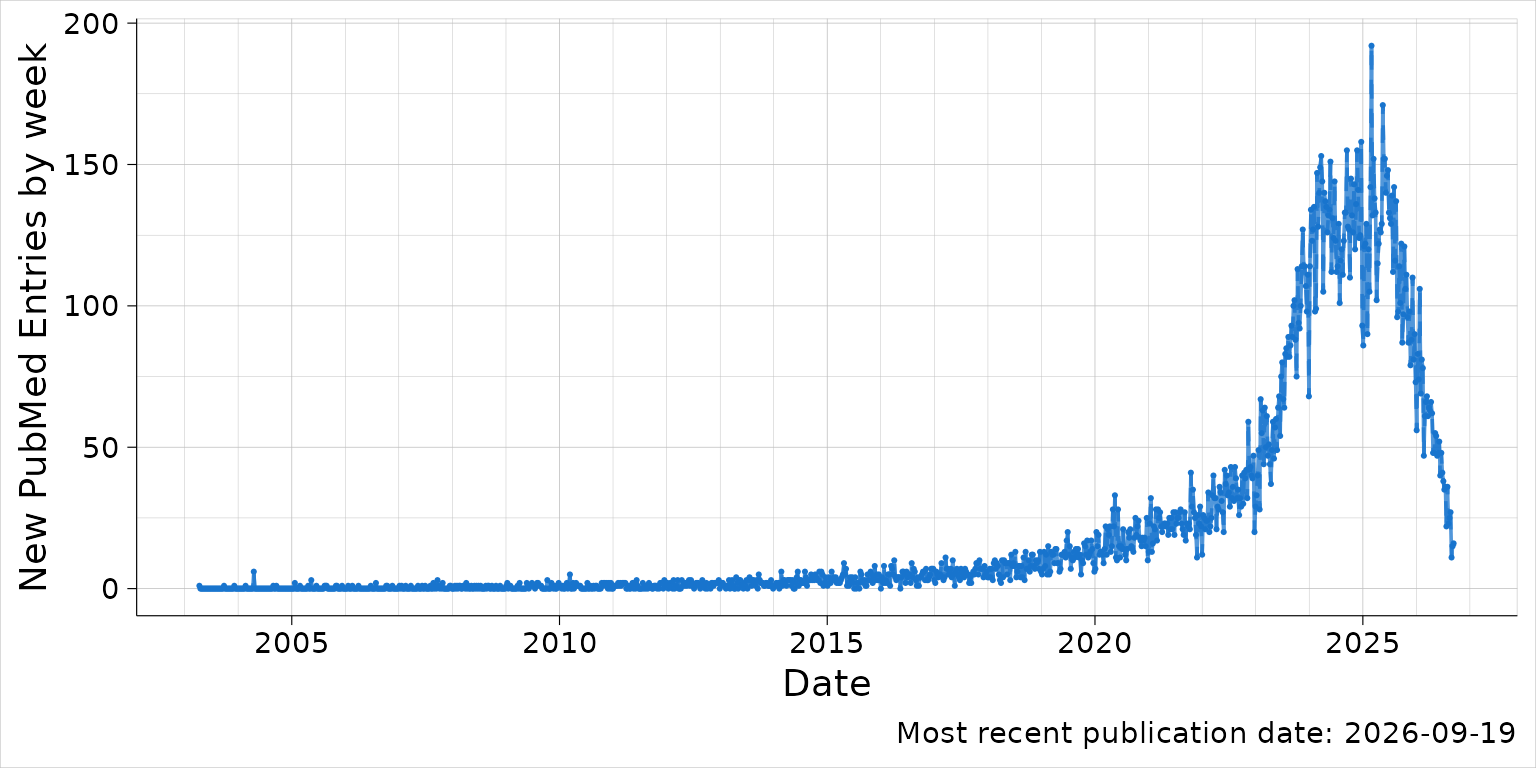
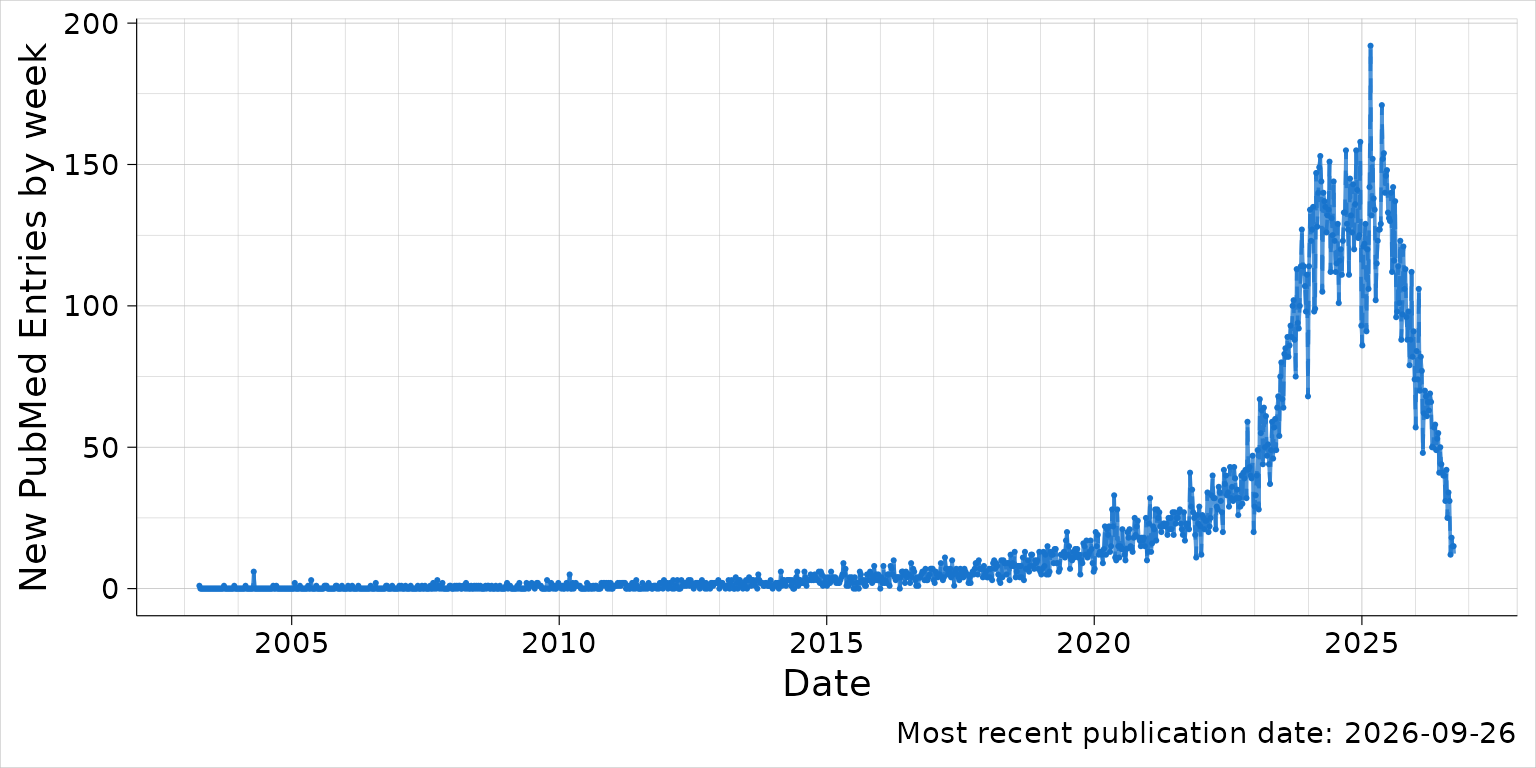
Deploying to gh-pages from @ explodecomputer/PubmedPlot@068eacdf5acdc66ea1c8a3d5640505ac4a8cb4ee 🚀

diff --git a/articles/mr.html b/articles/mr.html
@@ -199,7 +199,7 @@
 <span><span class="co">#&gt; Fetching records 6001 to 6437 </span></span>
 <span><span class="co">#&gt; Searching for year: 2025 </span></span>
 <span><span class="co">#&gt; Search term: "Mendelian randomisation" [tiab] OR "Mendelian randomization" [tiab] AND ("2025/01/01"[dp] : "2025/12/31"[dp]) </span></span>
-<span><span class="co">#&gt; Found 7122 articles matching the search term.</span></span>
+<span><span class="co">#&gt; Found 7115 articles matching the search term.</span></span>
 <span><span class="co">#&gt; Fetching records 1 to 500 </span></span>
 <span><span class="co">#&gt; Fetching records 501 to 1000 </span></span>
 <span><span class="co">#&gt; Fetching records 1001 to 1500 </span></span>
@@ -214,10 +214,10 @@
 <span><span class="co">#&gt; Fetching records 5501 to 6000 </span></span>
 <span><span class="co">#&gt; Fetching records 6001 to 6500 </span></span>
 <span><span class="co">#&gt; Fetching records 6501 to 7000 </span></span>
-<span><span class="co">#&gt; Fetching records 7001 to 7122 </span></span>
+<span><span class="co">#&gt; Fetching records 7001 to 7115 </span></span>
 <span><span class="co">#&gt; Searching for year: 2026 </span></span>
 <span><span class="co">#&gt; Search term: "Mendelian randomisation" [tiab] OR "Mendelian randomization" [tiab] AND ("2026/01/01"[dp] : "2026/12/31"[dp]) </span></span>
-<span><span class="co">#&gt; Found 4430 articles matching the search term.</span></span>
+<span><span class="co">#&gt; Found 4560 articles matching the search term.</span></span>
 <span><span class="co">#&gt; Fetching records 1 to 500 </span></span>
 <span><span class="co">#&gt; Fetching records 501 to 1000 </span></span>
 <span><span class="co">#&gt; Fetching records 1001 to 1500 </span></span>
@@ -226,7 +226,8 @@
 <span><span class="co">#&gt; Fetching records 2501 to 3000 </span></span>
 <span><span class="co">#&gt; Fetching records 3001 to 3500 </span></span>
 <span><span class="co">#&gt; Fetching records 3501 to 4000 </span></span>
-<span><span class="co">#&gt; Fetching records 4001 to 4430</span></span>
+<span><span class="co">#&gt; Fetching records 4001 to 4500 </span></span>
+<span><span class="co">#&gt; Fetching records 4501 to 4560</span></span>
 <span><span class="co"># write_json(a, "pubmed_abstracts.json", pretty=TRUE)</span></span>
 <span><span class="va">b</span> <span class="op">&lt;-</span> <span class="fu"><a href="../reference/group_by_time_interval.html">group_by_time_interval</a></span><span class="op">(</span><span class="va">a</span><span class="op">)</span></span>
 <span><span class="va">p</span> <span class="op">&lt;-</span> <span class="fu"><a href="../reference/plot_time_interval.html">plot_time_interval</a></span><span class="op">(</span><span class="va">b</span><span class="op">)</span></span></code></pre></div>

diff --git a/articles/mr.md b/articles/mr.md
@@ -139,7 +139,7 @@ a <- PubmedPlot::search_term_by_year('"Mendelian randomisation" [tiab] OR "Mende
 #> Fetching records 6001 to 6437 
 #> Searching for year: 2025 
 #> Search term: "Mendelian randomisation" [tiab] OR "Mendelian randomization" [tiab] AND ("2025/01/01"[dp] : "2025/12/31"[dp]) 
-#> Found 7122 articles matching the search term.
+#> Found 7115 articles matching the search term.
 #> Fetching records 1 to 500 
 #> Fetching records 501 to 1000 
 #> Fetching records 1001 to 1500 
@@ -154,10 +154,10 @@ a <- PubmedPlot::search_term_by_year('"Mendelian randomisation" [tiab] OR "Mende
 #> Fetching records 5501 to 6000 
 #> Fetching records 6001 to 6500 
 #> Fetching records 6501 to 7000 
-#> Fetching records 7001 to 7122 
+#> Fetching records 7001 to 7115 
 #> Searching for year: 2026 
 #> Search term: "Mendelian randomisation" [tiab] OR "Mendelian randomization" [tiab] AND ("2026/01/01"[dp] : "2026/12/31"[dp]) 
-#> Found 4430 articles matching the search term.
+#> Found 4560 articles matching the search term.
 #> Fetching records 1 to 500 
 #> Fetching records 501 to 1000 
 #> Fetching records 1001 to 1500 
@@ -166,7 +166,8 @@ a <- PubmedPlot::search_term_by_year('"Mendelian randomisation" [tiab] OR "Mende
 #> Fetching records 2501 to 3000 
 #> Fetching records 3001 to 3500 
 #> Fetching records 3501 to 4000 
-#> Fetching records 4001 to 4430
+#> Fetching records 4001 to 4500 
+#> Fetching records 4501 to 4560
 # write_json(a, "pubmed_abstracts.json", pretty=TRUE)
 b <- group_by_time_interval(a)
 p <- plot_time_interval(b)
